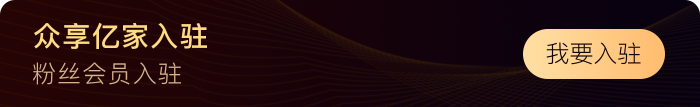
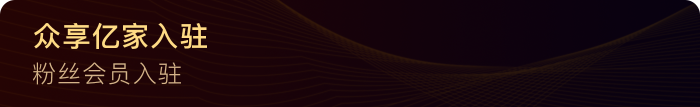
修

Changed region(s): [[0.75, 0.2523, 0.96, 0.757]]

diff --git a/src/pages/user/index.scss b/src/pages/user/index.scss
@@ -9,6 +9,7 @@
     padding: 0 25rpx;
     padding-top: 159rpx;
     box-sizing: border-box;
+    position: relative;
     .content_1_1 {
       display: flex;
       align-items: center;
@@ -66,9 +67,19 @@
     .content_1_2 {
       width: 700rpx;
       height: 107rpx;
-      display: block;
       margin: 0 auto;
       margin-top: 38rpx;
+      background: url('../../static/ruzhu-tu.webp') no-repeat;
+      background-size: 100%;
+      font-size: 28rpx;
+      font-family: PingFang SC;
+      font-weight: 500;
+      font-style: italic;
+      color: #ffdb85;
+      line-height: 107rpx;
+      padding-right: 23rpx;
+      box-sizing: border-box;
+      text-align: end;
     }
     .content_1_3 {
       height: 94rpx;
@@ -81,6 +92,8 @@
       font-weight: 800;
       color: #000000;
       background: #fff;
+      position: absolute;
+      bottom: 0;
     }
   }
   .content_2 {

diff --git a/src/pages/user/index.vue b/src/pages/user/index.vue
@@ -16,7 +16,8 @@
 						<view class="content_1_1_2_2">会员等级：{{ userInfo.vip_name }}</view>
 					</view>
 				</view>
-				<image class="content_1_2" src="../../static/ruzhu-tu.webp" @click="goVip" />
+				<view class="content_1_2">{{ userInfo.rank_record == 1 ? '您已成功入驻' : '申请入驻' }}</view>
+				<!-- <image class="content_1_2" src="../../static/ruzhu-tu.webp" @click="goVip" /> -->
 				<view class="content_1_3">我的任务</view>
 			</view>
 			<view class="content_2">
